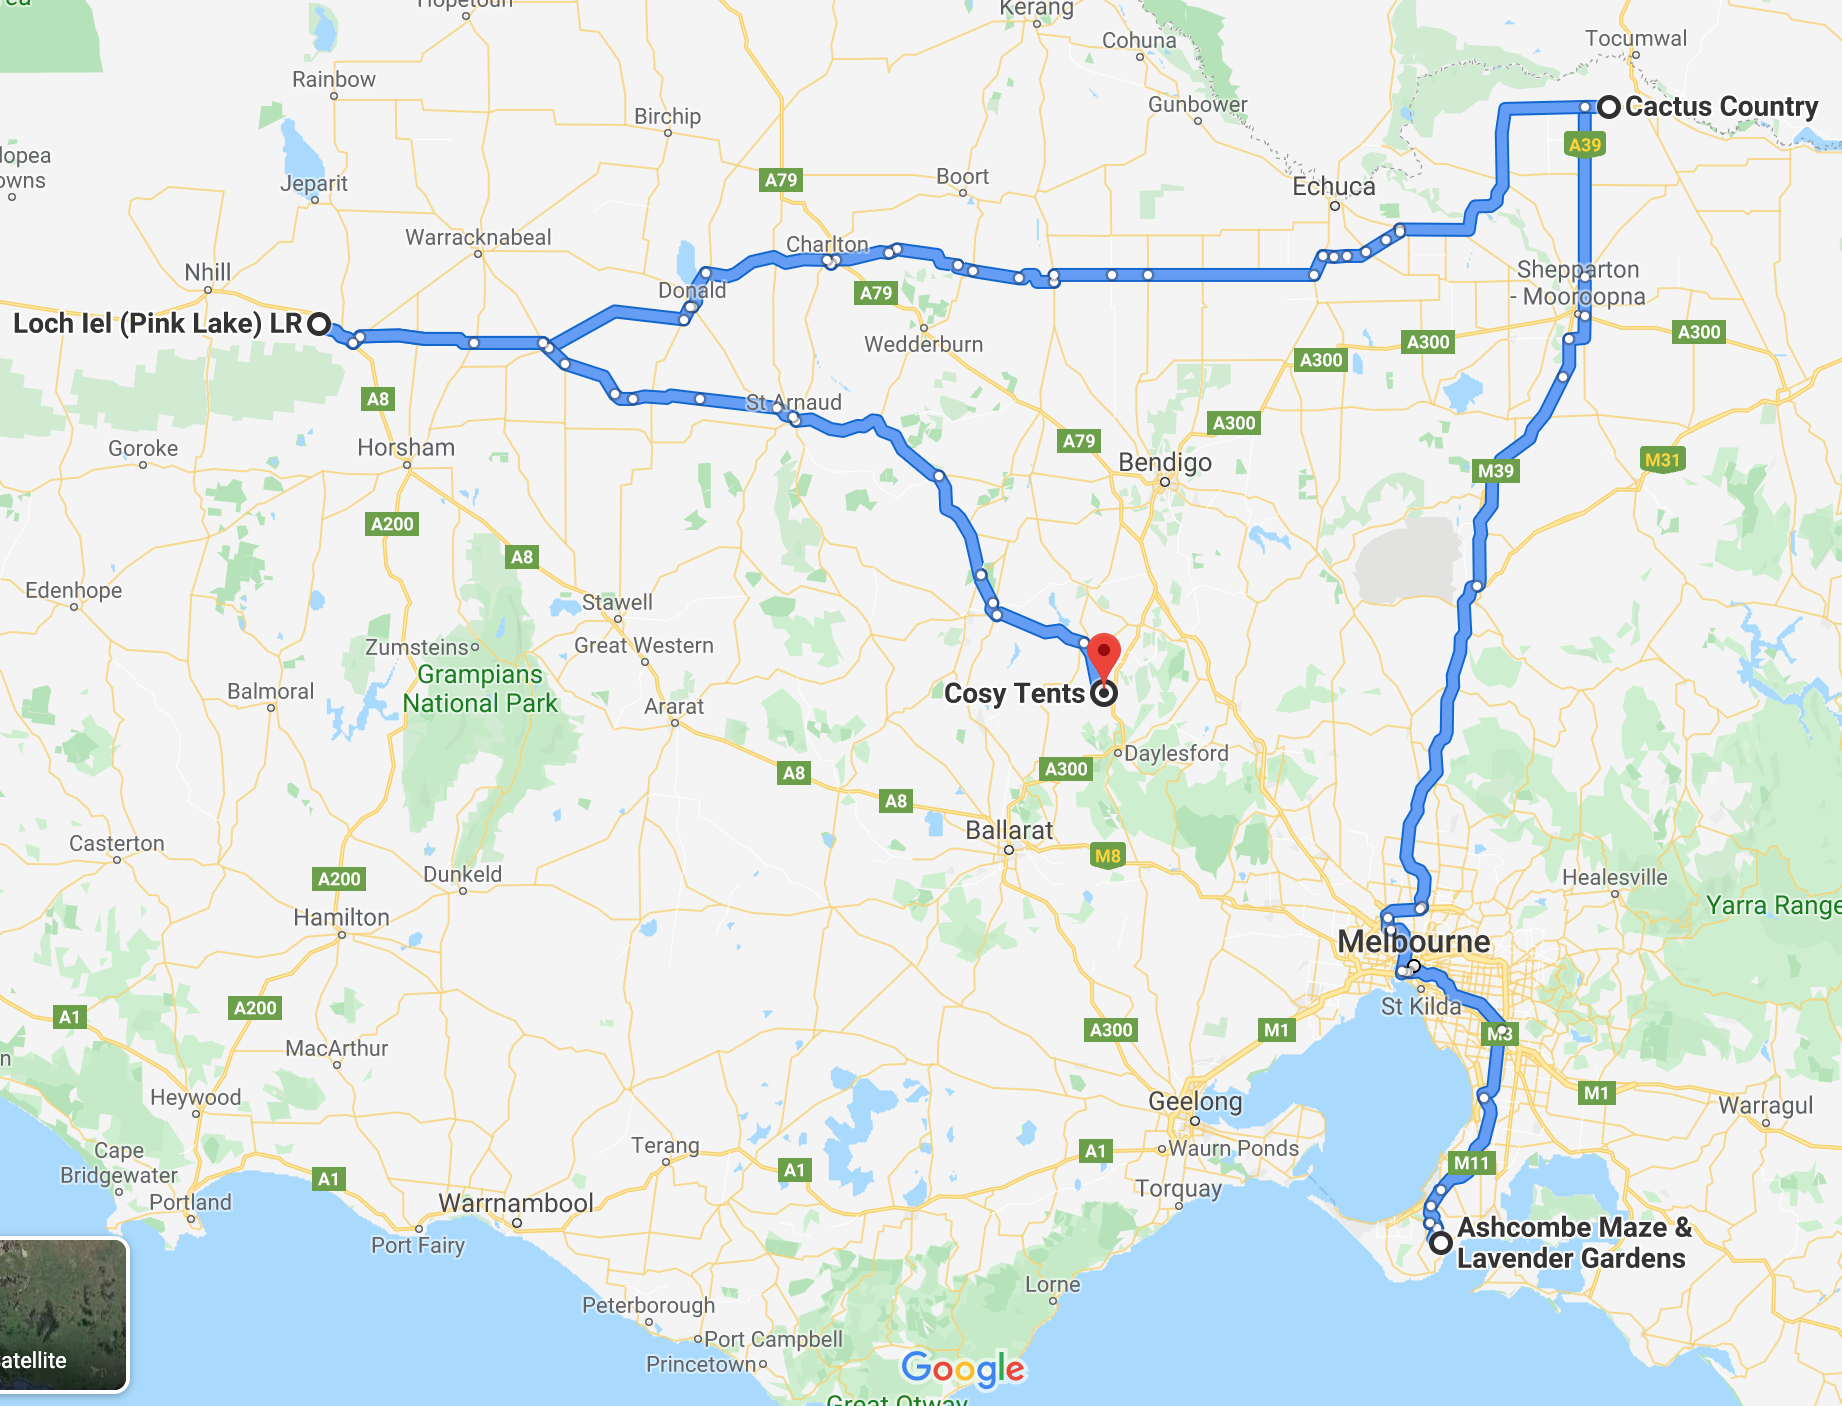
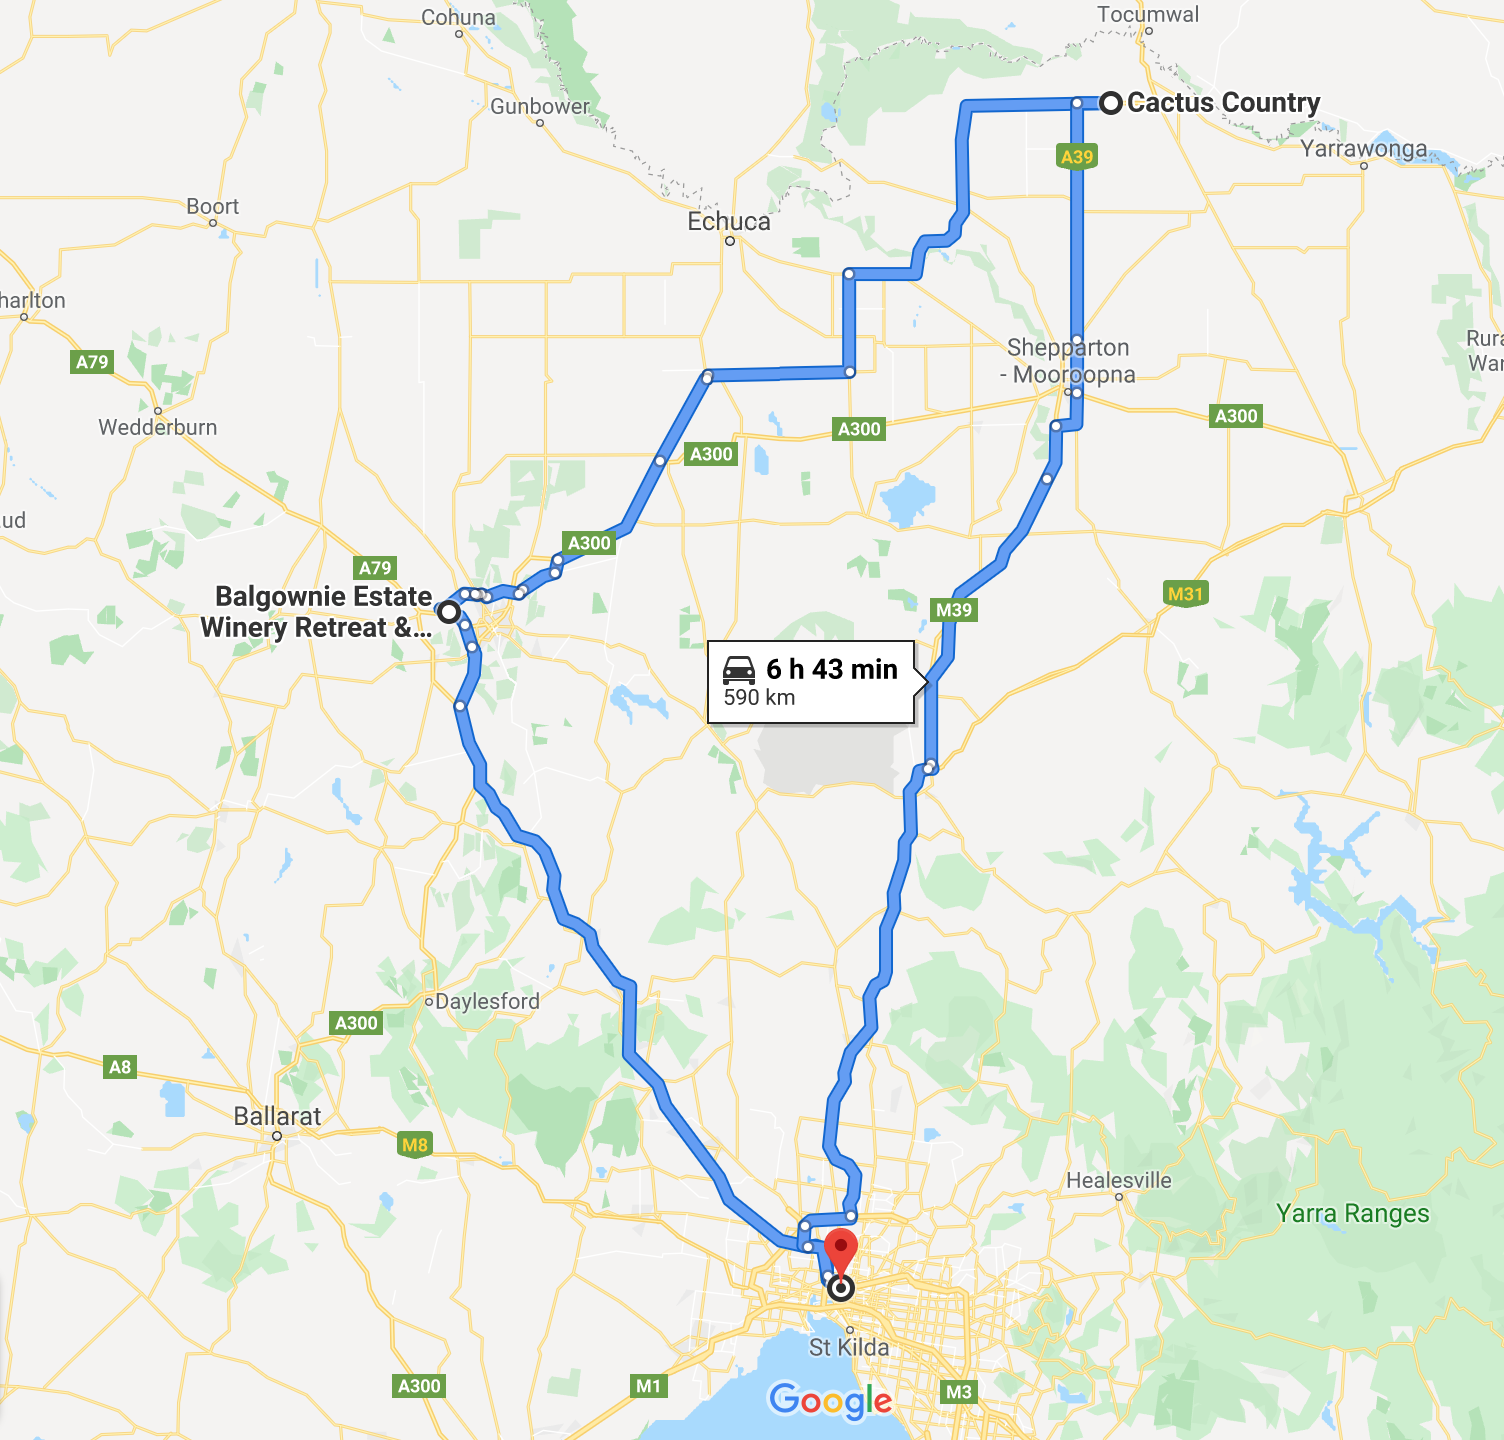
update perth travel plan

diff --git a/source/_posts/Australia-Travel-Plan.md b/source/_posts/Australia-Travel-Plan.md
@@ -1,0 +1,84 @@
+---
+title: Australia Travel Plan
+date: 2019-12-13 00:19:24
+tags: [travel]
+---
+
+# Perth
+
+## Accommodation
+`// TODO`
+
+## Plan
+1月15日 00:20 - 1月15日 09:50 ｜ ✈ 上海 到 Perth `改签费 $169`
+
+1月15日下午在市区玩，晚上住市区
+
+* Blue house
+* The University of Western Australia
+* Kings park (夜景)
+
+<!-- more -->
+
+---
+
+# Pink lake - Pinnacles - Lobster Shack - Lancelin
+
+1月16日，17日 ｜ 跟团出行
+
+## Plan
+
+[【点击查看淘宝】](https://traveldetail.fliggy.hk/item.htm?spm=a230r.1.14.1.38c777a0Vejraj&id=591063274769&ns=1&abbucket=19): 大约`¥1600 x 2`
+
+---
+
+# Rottnest Island 老鼠岛
+
+## Accommodation
+* Hotel Rottnest [【点击查看详情】](https://www.rottnestisland.com/accommodation/accommodation-types/hotel-rottnest): `票价要打电话咨询`
+* Island Couples Retreat [【点击查看详情】](https://www.rottnestisland.com/accommodation/accommodation-types/premium-accommodation): `$214`
+
+## Plan
+1月18日上午07:00 | Perth市区酒店出发，坐船去老鼠岛。[【点击查看淘宝】](https://traveldetail.fliggy.com/item.htm?spm=a230r.1.14.1.720d6f022EctP3&id=584671753240&ad_id=&am_id=&cm_id=140105335569ed55e27b&pm_id=&abbucket=19): `¥536 x 2`
+
+1月18日上午 跳伞 [【点击查看淘宝】](https://traveldetail.fliggy.hk/item.htm?spm=a230r.1.14.6.74ef7a24izunOz&id=573543623367&ad_id=&am_id=&cm_id=140105335569ed55e27b&pm_id=&abbucket=19)
+
+* 8000 m `¥1579`
+* 10000 m `¥1675`
+* 14000 m `¥2155`
+* 15000 m `¥2395`
+
+1月18日下午 看小老鼠、骑单车环岛。
+
+1月19日上午 浮潜/环岛。浮潜设备: `¥90 x 2`
+
+1月19日下午14:30 | 坐船去机场，大约4点多到达机场
+
+1月19日 17:50 - 1月20日 00:25 ｜ ✈ Perth 到 Melbourne `$238 x 2`
+
+---
+
+# Melbourne
+
+## Accommodation
+`// TODO`
+
+## Plan
+
+1月20日早上 吃完brunch 取车。
+
+1月20日中午 出发去Bendigo & Balgownie Estate Winery
+
+1月21日早上 出发去Cactus country 仙人掌王国🌵
+
+1月21日下午 回Melbourne CBD
+
+1月22日 CBD
+
+![melbourne-plan](../../../../images/travel/melbourne-plan.png)
+
+1月23日 00:30 - 1月23日 12:05 ｜ ✈ Melbourne 到 长沙
+
+```
+EOF
+```
